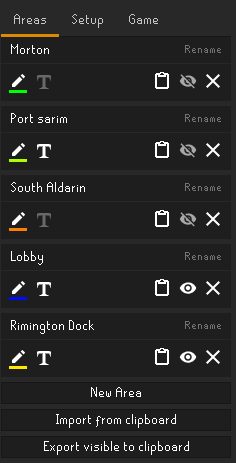
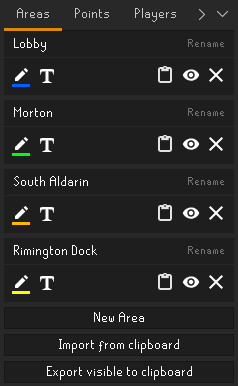
Updated Readme and reordered the tabs in the panel

diff --git a/src/main/java/com/github/jeromkiller/HideAndSeekTracker/GameRoundPanel.java b/src/main/java/com/github/jeromkiller/HideAndSeekTracker/GameRoundPanel.java
@@ -39,7 +39,7 @@ public class GameRoundPanel extends BasePanel {
         this.settings = plugin.getSettings();
 
         setLayout(new BorderLayout());
-        setBorder(new EmptyBorder(5, 0, 0, 0));
+        setBorder(new EmptyBorder(5, 0, 0, 1));
 
         JPanel contents = new JPanel();
         contents.setLayout(new GridBagLayout());
@@ -109,12 +109,14 @@ public class GameRoundPanel extends BasePanel {
         resultTable.setAutoResizeMode(JTable.AUTO_RESIZE_ALL_COLUMNS);
         constraints.gridwidth = 2;
         constraints.fill = GridBagConstraints.BOTH;
+        constraints.weightx = 1;
         constraints.weighty = 1;
         JScrollPane scrollPane = new JScrollPane(resultTable);
         contents.add(scrollPane, constraints);
         constraints.gridwidth = 1;
         constraints.gridy++;
         constraints.weighty = 0;
+        constraints.weightx = 0;
 
         contents.add(numFinished, constraints);
 

diff --git a/src/main/java/com/github/jeromkiller/HideAndSeekTracker/HideAndSeekTrackerPanel.java b/src/main/java/com/github/jeromkiller/HideAndSeekTracker/HideAndSeekTrackerPanel.java
@@ -38,14 +38,14 @@ public class HideAndSeekTrackerPanel extends PluginPanel {
         JTabbedPane tabPane = new JTabbedPane(JTabbedPane.TOP, JTabbedPane.SCROLL_TAB_LAYOUT);
 
         // maybe replace the text with icons
-        setupPanel = new GameSetupPanel(plugin);
-        tabPane.addTab("Players", new JScrollPane(setupPanel));
-
         areaPanel = new CaptureAreaManagementPanel(plugin);
         tabPane.addTab("Areas", new JScrollPane(areaPanel));
 
         scorePanel = new ScoringPanel(plugin);
-        tabPane.add("Score", new JScrollPane(scorePanel));
+        tabPane.add("Points", new JScrollPane(scorePanel));
+
+        setupPanel = new GameSetupPanel(plugin);
+        tabPane.addTab("Players", new JScrollPane(setupPanel));
 
         gamePanel = new GamePanel(plugin);
         tabPane.addTab("Game", gamePanel);

diff --git a/README.md b/README.md
@@ -3,12 +3,18 @@ A player tracker for the hide and seek (GieliGuessr) events hosted in the offici
 
 ![the race is on](images/Race.png)
 
+## What's new!
+  - Added Customizable Point system
+  - Games can now have multiple rounds
+  - Improved the result export format.
+  - Changed the old export option to a developer option.
+
 ## Features
   - Automatic placement tracking of participants.
   - Timing Leniency for shared placements.
+  - Customizable score system.
   - Capture Area import and export function for easy sharing between hosts.
-  - Export of placement and hints to clipboard for easy pasting into spreadsheets.
-
+  - Easy copying of results to clipboard.
 
 ## setting up a game
 
@@ -26,20 +32,29 @@ You may also hide any unused capture areas from the world, these will not be use
 
 ![AreaPanel.png](images/AreaPanel.png)
 
-### Setting up Game rules
-After setting up the desired Capture Areas you can set up the participant list.
+### Setup points and penalties
+After setting up the desired Capture Areas you can modify how points are given to every player.
+Points can be positive to give points to a player or negative to penalize a player.
+Negative points aren't carried over to the next round
+
+The score rules in the image below are as follows:
+ - The player who finishes first gets 5 points,
+ - The player who finishes second gets 4 points,
+ - Players finishing 3rd through 5th get 3 points each,
+ - Players finishing 6th through 10th get 2 points each,
+ - Anyone finishing past 10th place doesn't get any points.
+ - Players get a point penalty for every hint given before they finished.
+
+![PointsPanel.png](images/PointsPanel.png)
+
+### Add participants
+When the rules are all set up all there is left to do is to add the participants of the game.
 Simply enter the character name of every player who wishes to participate and click the 'Save Participant Names' button.
 Duplicate names will be automatically removed from the list.
 
-If there are a lot of participants you can also place down a capture area automatically add playernames of anyone inside it to the list using the 'Automatically Fill Names' option.
+If there are a lot of participants, or if you know people will be joining half way through the game. you can toggle the 'Automatically Fill Names' option to automatically register anyone who enters one of your capture areas/
 
-![Settings](images/SettingsPanel.png)
-
-The 'Placement Leniency Ticks' option changes within how many ticks two players have to finnish in order to share a position on the leaderboard.
-We recommend setting this to 2 ticks at its lowest as that's most reliable.
-
-###### note: at 0 ticks players entering the area on the same tick will not share a spot, the player whose name comes first in the alphabet will be placed first
-###### note: at 1 tick players running one tile behind each other may or may not get to share a placement depending on what tile they enter the area on.
+![Players](images/PlayersPanel.png)
 
 ### Tracking players
 
@@ -52,11 +67,21 @@ Parts of the area outside of render distance are shown in a different color as s
 
 ![Incorrect](images/IncorrectZoning.png)
 
-When players enter the Area they will automatically be added to the scoreboard.
+When players enter the Area they will automatically be added to the scoreboard of the active round.
 
 Update the hint counter whenever a new hint is given.
 
 ![game panel](images/Placement.png)
 
-After a round is over copy the scores to your clipboard with the buttons at the top and paste them to a spreadsheet software of your choice.
+At the end of a round you can start a new round by pressing the ![NewRound](images/addRound.png) button.
+You can navigate between the results of past round by using the arrows at the top of the panel.
 
+You can copy the results of each round to your clipboard by pressing the clipboard icon at the bottom. 
+
+## Other settings
+
+The 'Placement Leniency Ticks' option changes within how many ticks two players have to finnish in order to share a position on the leaderboard.
+We recommend setting this to 2 ticks at its lowest as that's most reliable.
+
+###### note: at 0 ticks players entering the area on the same tick will not share a spot, the player whose name comes first in the alphabet will be placed first
+###### note: at 1 tick players running one tile behind each other may or may not get to share a placement depending on what tile they enter the area on.
